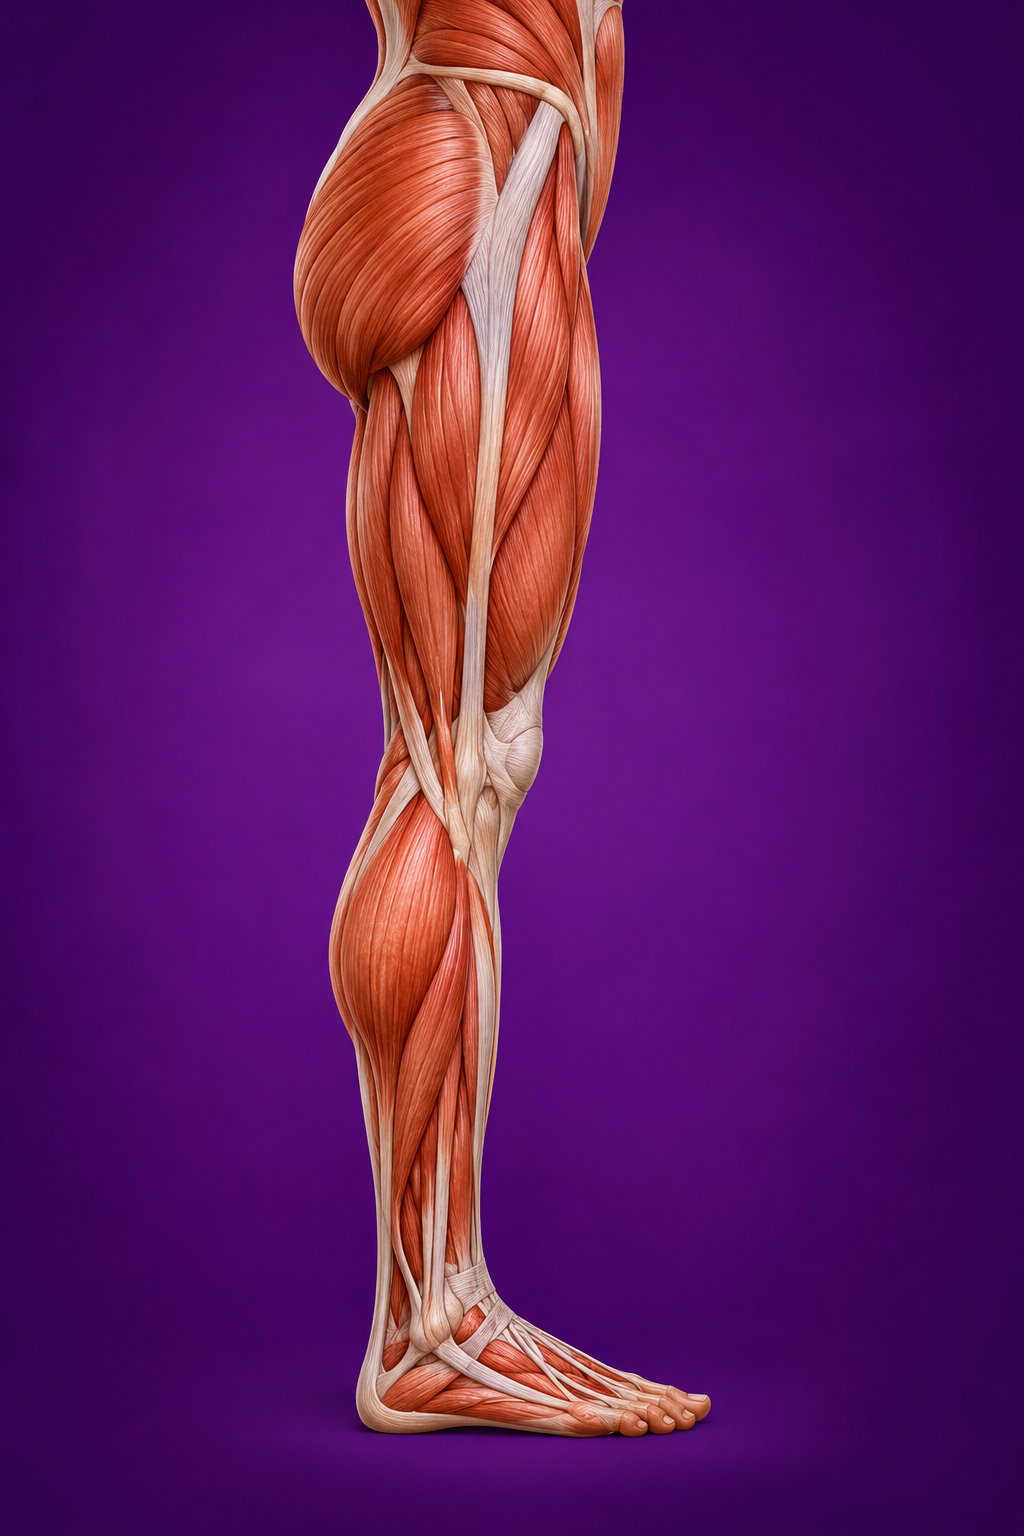
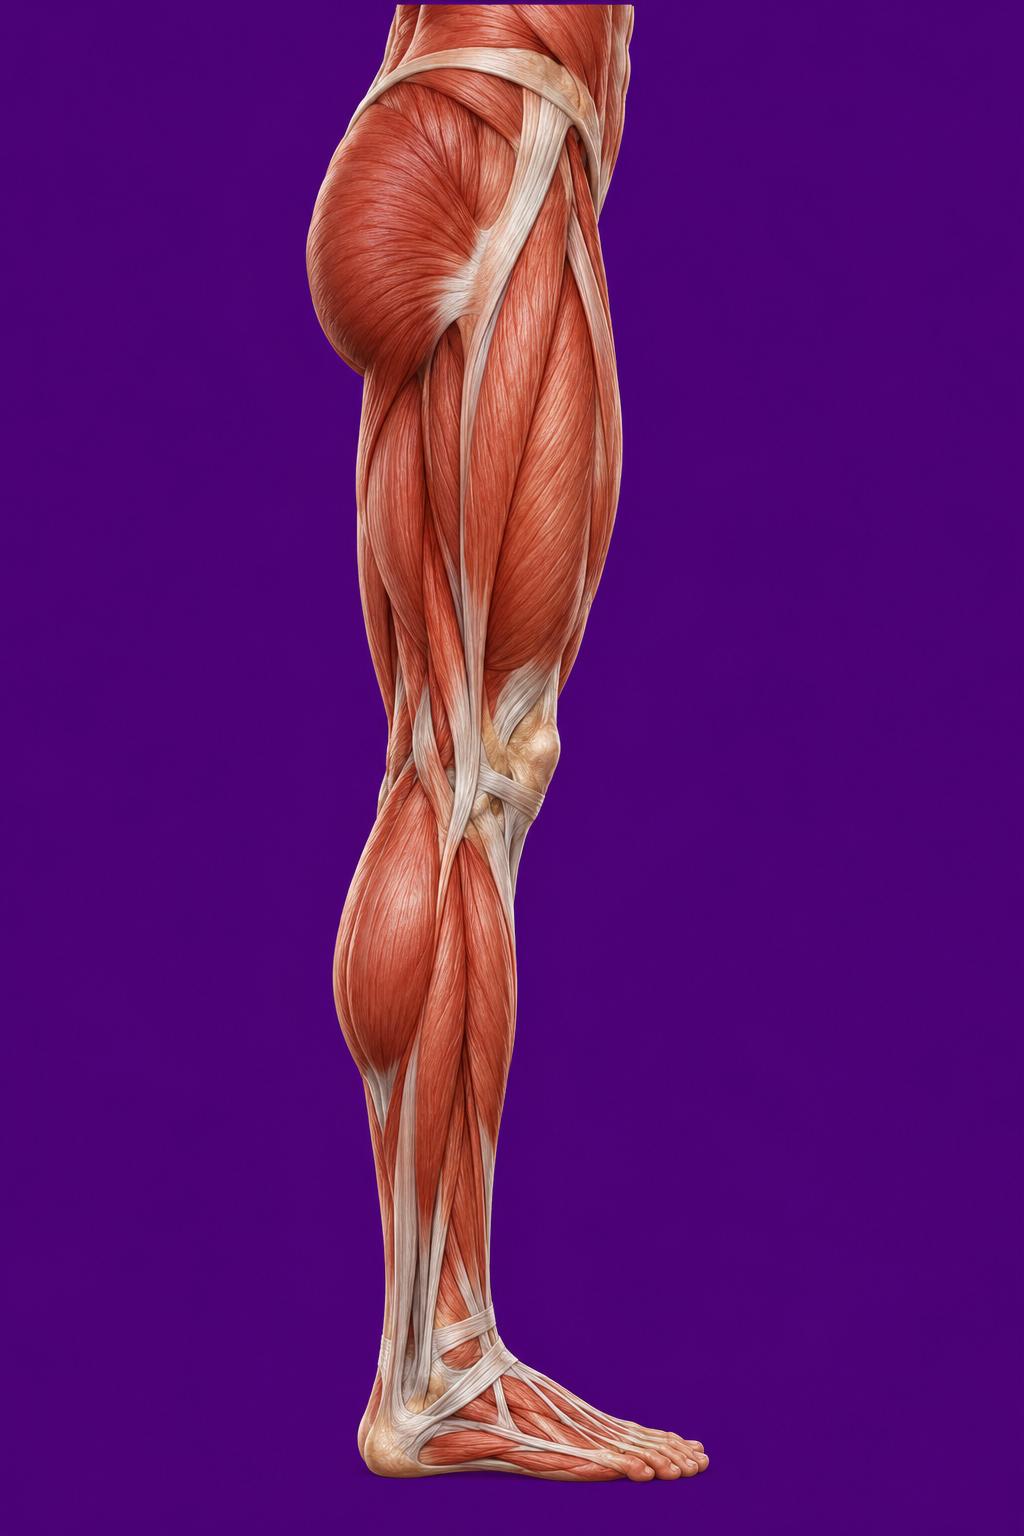
fix(atlas): refresh eight upper and lower limb illustrations

diff --git a/app/atlas-premium/muscular-data.ts b/app/atlas-premium/muscular-data.ts
@@ -550,20 +550,20 @@ export const muscularLabs:Record<string,Lab>={
           {
             "name": "Bíceps braquial",
             "description": "Flexiona o cotovelo e supina o antebraço; recebe inervação musculocutânea.",
-            "x": 19,
-            "y": 31
+            "x": 26,
+            "y": 36
           },
           {
             "name": "Braquiorradial",
             "description": "Músculo superficial lateral do antebraço que auxilia a flexão do cotovelo, sobretudo na posição intermediária entre pronação e supinação. O braquial não está claramente individualizado nesta vista.",
-            "x": 10,
-            "y": 52
+            "x": 17,
+            "y": 54
           },
           {
             "name": "Deltoide",
             "description": "A porção média abduz o braço, enquanto as porções anterior e posterior têm ações distintas.",
-            "x": 17,
-            "y": 16
+            "x": 27,
+            "y": 18
           }
         ]
       },
@@ -576,20 +576,20 @@ export const muscularLabs:Record<string,Lab>={
           {
             "name": "Tríceps braquial",
             "description": "Estende o cotovelo; a cabeça longa também cruza o ombro.",
-            "x": 20,
-            "y": 43
+            "x": 26,
+            "y": 34
           },
           {
             "name": "Infraespinal",
             "description": "Integra o manguito rotador e promove rotação lateral do úmero.",
-            "x": 32,
-            "y": 34
+            "x": 35,
+            "y": 23
           },
           {
-            "name": "Redondo menor",
-            "description": "Auxilia a rotação lateral do ombro e a estabilidade glenoumeral.",
+            "name": "Deltoide posterior",
+            "description": "Porção posterior do deltoide, que auxilia a extensão e a abdução horizontal do ombro. O redondo menor não está individualizado com segurança nesta ilustração.",
             "x": 26,
-            "y": 38
+            "y": 19
           }
         ]
       },
@@ -602,20 +602,20 @@ export const muscularLabs:Record<string,Lab>={
           {
             "name": "Pronador redondo",
             "description": "Prona o antebraço e auxilia a flexão do cotovelo.",
-            "x": 50,
-            "y": 17
+            "x": 51,
+            "y": 24
           },
           {
-            "name": "Flexor superficial dos dedos",
-            "description": "Flexiona as articulações interfalângicas proximais dos dedos II a V.",
-            "x": 51,
-            "y": 31
+            "name": "Grupo flexor do antebraço",
+            "description": "Músculos anteriores do antebraço que participam da flexão do punho e dos dedos; os limites individuais nem sempre são distinguíveis nesta ilustração.",
+            "x": 56,
+            "y": 35
           },
           {
             "name": "Retináculo dos flexores",
             "description": "Espessamento fibroso na região palmar do punho que forma o teto do túnel do carpo e contribui para manter os tendões flexores próximos aos ossos.",
-            "x": 45,
-            "y": 56
+            "x": 47,
+            "y": 59
           }
         ]
       },
@@ -628,20 +628,20 @@ export const muscularLabs:Record<string,Lab>={
           {
             "name": "Tendões flexores dos dedos",
             "description": "Transmitem a força dos músculos flexores extrínsecos do antebraço aos dedos, permitindo a flexão das articulações digitais.",
-            "x": 40,
-            "y": 36
+            "x": 48,
+            "y": 51
           },
           {
             "name": "Musculatura tenar",
             "description": "Grupo muscular na base do polegar que participa da oposição, abdução e flexão do polegar. Seus componentes não estão completamente individualizados nesta ilustração.",
-            "x": 69,
-            "y": 62
+            "x": 60,
+            "y": 63
           },
           {
             "name": "Musculatura hipotenar",
             "description": "Grupo muscular na base do dedo mínimo que contribui para seus movimentos e para a adaptação da palma à preensão.",
-            "x": 22,
-            "y": 62
+            "x": 32,
+            "y": 60
           }
         ]
       }
@@ -734,14 +734,14 @@ export const muscularLabs:Record<string,Lab>={
           {
             "name": "Vasto medial",
             "description": "Estende o joelho e contribui para o controle patelar.",
-            "x": 40,
+            "x": 41,
             "y": 36
           },
           {
             "name": "Tibial anterior",
             "description": "Realiza dorsiflexão e auxilia inversão do pé.",
-            "x": 30,
-            "y": 63
+            "x": 31,
+            "y": 62
           }
         ]
       },
@@ -754,20 +754,20 @@ export const muscularLabs:Record<string,Lab>={
           {
             "name": "Glúteo máximo",
             "description": "Principal extensor potente do quadril, especialmente ao levantar-se ou subir escadas.",
-            "x": 37,
+            "x": 38,
             "y": 15
           },
           {
             "name": "Bíceps femoral",
             "description": "Flexiona o joelho; a cabeça longa também estende o quadril.",
-            "x": 29,
+            "x": 30,
             "y": 34
           },
           {
             "name": "Gastrocnêmio",
             "description": "Realiza flexão plantar e auxilia flexão do joelho.",
-            "x": 34,
-            "y": 61
+            "x": 32,
+            "y": 60
           }
         ]
       },
@@ -778,22 +778,22 @@ export const muscularLabs:Record<string,Lab>={
         "ready": true,
         "points": [
           {
-            "name": "Glúteo médio",
-            "description": "Abduz o quadril e estabiliza a pelve durante apoio unipodal.",
-            "x": 47,
-            "y": 4
+            "name": "Glúteo máximo",
+            "description": "Realiza extensão potente do quadril e contribui para sua estabilidade. O glúteo médio está parcialmente encoberto nesta vista.",
+            "x": 38,
+            "y": 16
           },
           {
             "name": "Trato iliotibial",
             "description": "Espessamento lateral da fáscia lata, que recebe forças do tensor da fáscia lata e do glúteo máximo.",
-            "x": 48,
-            "y": 31
+            "x": 47,
+            "y": 38
           },
           {
             "name": "Gastrocnêmio",
             "description": "Músculo superficial da panturrilha que auxilia a flexão plantar e a flexão do joelho.",
-            "x": 39,
-            "y": 61
+            "x": 38,
+            "y": 62
           }
         ]
       },
@@ -806,20 +806,20 @@ export const muscularLabs:Record<string,Lab>={
           {
             "name": "Patela",
             "description": "Osso sesamoide do mecanismo extensor do joelho, que aumenta o braço de momento do quadríceps.",
-            "x": 33,
-            "y": 43
+            "x": 36,
+            "y": 44
           },
           {
             "name": "Tendão do quadríceps",
             "description": "Transmite a força do quadríceps à patela durante a extensão do joelho.",
-            "x": 34,
-            "y": 37
+            "x": 37,
+            "y": 36
           },
           {
-            "name": "Tíbia",
-            "description": "Osso medial da perna, que transmite carga entre o joelho e o tornozelo.",
-            "x": 30,
-            "y": 64
+            "name": "Sartório",
+            "description": "Músculo superficial de trajeto oblíquo na coxa, que auxilia flexão, abdução e rotação lateral do quadril e flexão do joelho.",
+            "x": 40,
+            "y": 26
           }
         ]
       }

diff --git a/public/atlas-premium/muscular/membros-inferiores/README.md b/public/atlas-premium/muscular/membros-inferiores/README.md
@@ -1,8 +1,8 @@
 # Membros inferiores
 
-4 imagens integradas, 12 marcadores aproximados e 6 questões comentadas. A vista profunda é anterior; marcadores ajustados a estruturas visíveis. Revisão anatômica especializada pendente. As duas vistas alternativas permanecem preservadas em alternativas/, sem uso no visualizador.
+Quatro imagens novas integradas; 12 marcadores aproximados recalibrados; seis questões comentadas preservadas. As versões anteriores estão em versao-anterior/. Revisão anatômica especializada e validação visual pendentes.
 
-- anterior.webp
-- posterior.webp
-- lateral.webp
-- profunda.webp
+- anterior.webp — Vista anterior
+- posterior.webp — Vista posterior
+- lateral.webp — Vista lateral
+- profunda.webp — Camada profunda

diff --git a/public/atlas-premium/muscular/membros-superiores/README.md b/public/atlas-premium/muscular/membros-superiores/README.md
@@ -1,8 +1,8 @@
 # Membros superiores
 
-4 imagens integradas, 12 marcadores aproximados e 6 questões comentadas. A mão é representada em vista palmar. Marcadores limitados às estruturas visíveis; revisão anatômica especializada pendente.
+Quatro imagens novas integradas; 12 marcadores aproximados recalibrados; seis questões comentadas preservadas. As versões anteriores estão em versao-anterior/. Revisão anatômica especializada e validação visual pendentes.
 
-- anterior.webp
-- posterior.webp
-- antebraco.webp
-- mao.webp
+- anterior.webp — Vista anterior
+- posterior.webp — Vista posterior
+- antebraco.webp — Antebraço
+- mao.webp — Mão
